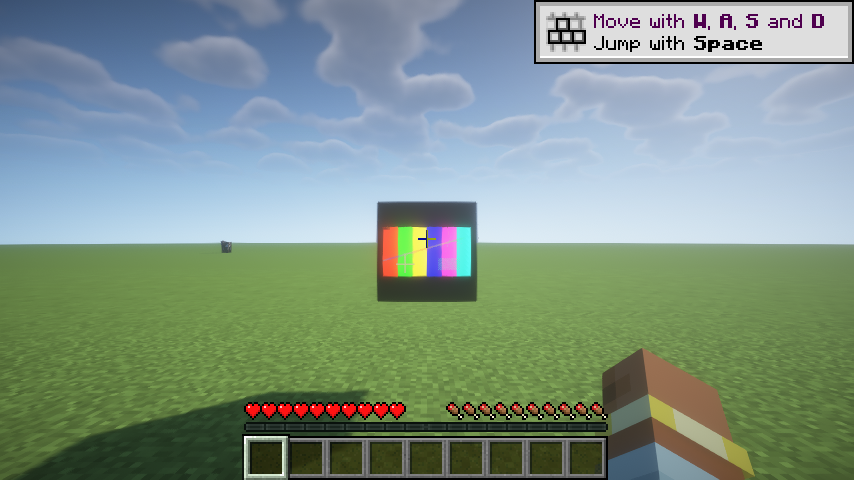
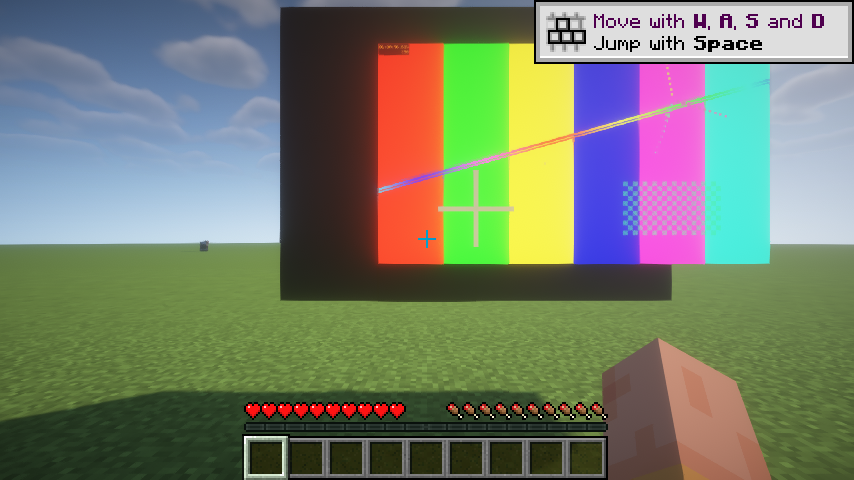
Render multi-block 4x3 screens with shared video surface

diff --git a/src/client/java/com/example/firstmod/client/render/ScreenBlockEntityRenderer.java b/src/client/java/com/example/firstmod/client/render/ScreenBlockEntityRenderer.java
@@ -11,84 +11,91 @@ import net.minecraft.client.renderer.blockentity.BlockEntityRenderer;
 import net.minecraft.client.renderer.blockentity.BlockEntityRendererProvider;
 import net.minecraft.client.renderer.texture.OverlayTexture;
 import net.minecraft.core.Direction;
-import net.minecraft.resources.ResourceLocation;
+import net.minecraft.world.phys.Vec3;
+import org.joml.Matrix4f;
 
 /**
- * Paints the live video texture on the screen block's front face.
+ * Draws one video quad for the whole rectangular screen.
  *
- * <p>The first block slice uses a centered 16:9 image on a 1x1 block. The black
- * frame is the normal block model; multi-block UV splitting comes later.
+ * <p>Only the master block (viewer's left/bottom of the rectangle) renders, so
+ * adjacent screen blocks do not create seams. The black block model acts as the
+ * frame and letterbox; the video is contained inside it.
  */
 public final class ScreenBlockEntityRenderer implements BlockEntityRenderer<ScreenBlockEntity> {
-	private static final ResourceLocation IDLE_TEXTURE =
-		ResourceLocation.withDefaultNamespace("textures/block/black_concrete.png");
-	private static final float MIN = 0.05f;
-	private static final float MAX = 0.95f;
-	private static final float MIN_Y = 0.246875f;
-	private static final float MAX_Y = 0.753125f;
-
 	public ScreenBlockEntityRenderer(BlockEntityRendererProvider.Context context) {
 	}
 
 	@Override
 	public void render(ScreenBlockEntity blockEntity, float tickDelta, PoseStack poseStack,
 					   MultiBufferSource bufferSource, int light, int overlay) {
-		Direction facing = blockEntity.getBlockState().getValue(ScreenBlock.FACING);
-		ResourceLocation texture = CinemaPlayer.active() != null
-			? CinemaPlayer.TEXTURE_ID : IDLE_TEXTURE;
-		VertexConsumer consumer = bufferSource.getBuffer(RenderType.entityCutoutNoCull(texture));
-		var pose = poseStack.last().pose();
-		float normalX = facing.getStepX();
-		float normalZ = facing.getStepZ();
-
-		switch (facing) {
-			case NORTH -> {
-				quad(consumer, pose, MIN, MIN_Y, -0.001f, MAX, MAX_Y, -0.001f,
-					normalX, normalZ);
-			}
-			case SOUTH -> {
-				quad(consumer, pose, MAX, MIN_Y, 1.001f, MIN, MAX_Y, 1.001f,
-					normalX, normalZ);
-			}
-			case WEST -> {
-				quad(consumer, pose, -0.001f, MIN_Y, MIN, -0.001f, MAX_Y, MAX,
-					normalX, normalZ);
-			}
-			case EAST -> {
-				quad(consumer, pose, 1.001f, MIN_Y, MAX, 1.001f, MAX_Y, MIN,
-					normalX, normalZ);
-			}
-			default -> {
-			}
+		CinemaPlayer player = CinemaPlayer.active();
+		if (player == null || player.width() <= 0 || player.height() <= 0) {
+			return;
 		}
+		ScreenGeometry geometry = ScreenGeometry.find(
+			blockEntity.getLevel(), blockEntity.getBlockPos(), blockEntity.getBlockState());
+		if (!blockEntity.getBlockPos().equals(geometry.master())) {
+			return;
+		}
+
+		vertex(blockEntity, bufferSource, poseStack, geometry, player);
 	}
 
-	private static void quad(VertexConsumer consumer, org.joml.Matrix4f pose,
-							 float x0, float y0, float z0, float x1, float y1, float z1,
-							 float normalX, float normalZ) {
-		consumer.addVertex(pose, x0, y0, z0)
-			.setColor(255, 255, 255, 255)
-			.setUv(1.0f, 1.0f)
-			.setOverlay(OverlayTexture.NO_OVERLAY)
-			.setLight(0xF000F0)
-			.setNormal(normalX, 0.0f, normalZ);
-		consumer.addVertex(pose, x1, y0, z1)
+	private static void vertex(ScreenBlockEntity blockEntity, MultiBufferSource bufferSource,
+							   PoseStack poseStack, ScreenGeometry geometry, CinemaPlayer player) {
+		float videoAspect = player.width() / (float) player.height();
+		double width = geometry.width();
+		double height = geometry.height();
+		double contentWidth;
+		double contentHeight;
+		if (width / height >= videoAspect) {
+			contentHeight = height;
+			contentWidth = height * videoAspect;
+		} else {
+			contentWidth = width;
+			contentHeight = width / videoAspect;
+		}
+		double offsetX = (width - contentWidth) / 2.0;
+		double offsetY = (height - contentHeight) / 2.0;
+
+		Vec3 right = geometry.right();
+		Vec3 up = geometry.up();
+		Direction facing = geometry.facing();
+		Vec3 normal = new Vec3(facing.getStepX() * 0.001, 0.0, facing.getStepZ() * 0.001);
+
+		Vec3 p0 = right.scale(offsetX).add(up.scale(offsetY)).add(normal);
+		Vec3 p1 = right.scale(offsetX + contentWidth).add(up.scale(offsetY)).add(normal);
+		Vec3 p2 = right.scale(offsetX + contentWidth).add(up.scale(offsetY + contentHeight)).add(normal);
+		Vec3 p3 = right.scale(offsetX).add(up.scale(offsetY + contentHeight)).add(normal);
+
+		VertexConsumer consumer = bufferSource.getBuffer(
+			RenderType.entityCutoutNoCull(CinemaPlayer.TEXTURE_ID));
+		Matrix4f pose = poseStack.last().pose();
+		float nx = facing.getStepX();
+		float nz = facing.getStepZ();
+		consumer.addVertex(pose, (float) p0.x, (float) p0.y, (float) p0.z)
 			.setColor(255, 255, 255, 255)
 			.setUv(0.0f, 1.0f)
 			.setOverlay(OverlayTexture.NO_OVERLAY)
 			.setLight(0xF000F0)
-			.setNormal(normalX, 0.0f, normalZ);
-		consumer.addVertex(pose, x1, y1, z1)
+			.setNormal(nx, 0.0f, nz);
+		consumer.addVertex(pose, (float) p1.x, (float) p1.y, (float) p1.z)
 			.setColor(255, 255, 255, 255)
-			.setUv(0.0f, 0.0f)
+			.setUv(1.0f, 1.0f)
 			.setOverlay(OverlayTexture.NO_OVERLAY)
 			.setLight(0xF000F0)
-			.setNormal(normalX, 0.0f, normalZ);
-		consumer.addVertex(pose, x0, y1, z0)
+			.setNormal(nx, 0.0f, nz);
+		consumer.addVertex(pose, (float) p2.x, (float) p2.y, (float) p2.z)
 			.setColor(255, 255, 255, 255)
 			.setUv(1.0f, 0.0f)
 			.setOverlay(OverlayTexture.NO_OVERLAY)
 			.setLight(0xF000F0)
-			.setNormal(normalX, 0.0f, normalZ);
+			.setNormal(nx, 0.0f, nz);
+		consumer.addVertex(pose, (float) p3.x, (float) p3.y, (float) p3.z)
+			.setColor(255, 255, 255, 255)
+			.setUv(0.0f, 0.0f)
+			.setOverlay(OverlayTexture.NO_OVERLAY)
+			.setLight(0xF000F0)
+			.setNormal(nx, 0.0f, nz);
 	}
 }

diff --git a/src/client/java/com/example/firstmod/client/render/ScreenGeometry.java b/src/client/java/com/example/firstmod/client/render/ScreenGeometry.java
@@ -1,0 +1,77 @@
+package com.example.firstmod.client.render;
+
+import com.example.firstmod.FirstMod;
+import com.example.firstmod.block.ScreenBlock;
+import net.minecraft.core.BlockPos;
+import net.minecraft.core.Direction;
+import net.minecraft.world.level.Level;
+import net.minecraft.world.level.block.state.BlockState;
+import net.minecraft.world.phys.Vec3;
+
+/**
+ * Finds the contiguous rectangular screen containing a block.
+ *
+ * <p>The screen plane is vertical. Only blocks with the same facing and on the
+ * same plane are considered. This is deliberately a small scan: screens are
+ * expected to be at most 16x16 blocks.
+ */
+public record ScreenGeometry(BlockPos master, Direction facing, int width, int height,
+							 Vec3 right, Vec3 up) {
+	private static final int MAX = 16;
+
+	public static ScreenGeometry find(Level level, BlockPos pos, BlockState state) {
+		Direction facing = state.getValue(ScreenBlock.FACING);
+		boolean alongX = facing.getAxis() == Direction.Axis.Z;
+		int stepX = alongX ? 1 : 0;
+		int stepZ = alongX ? 0 : 1;
+
+		int minH = 0;
+		int maxH = 0;
+		while (maxH < MAX && isScreen(level, pos.offset(stepX * (maxH + 1), 0, stepZ * (maxH + 1)), facing)) {
+			maxH++;
+		}
+		while (minH > -MAX && isScreen(level, pos.offset(stepX * (minH - 1), 0, stepZ * (minH - 1)), facing)) {
+			minH--;
+		}
+
+		int minY = 0;
+		int maxY = 0;
+		while (maxY < MAX && rowIsScreen(level, pos, stepX, stepZ, minH, maxH, maxY + 1, facing)) {
+			maxY++;
+		}
+		while (minY > -MAX && rowIsScreen(level, pos, stepX, stepZ, minH, maxH, minY - 1, facing)) {
+			minY--;
+		}
+
+		int width = maxH - minH + 1;
+		int height = maxY - minY + 1;
+		int masterX = pos.getX() + stepX * (facing == Direction.NORTH || facing == Direction.WEST ? maxH : minH);
+		int masterZ = pos.getZ() + stepZ * (facing == Direction.NORTH || facing == Direction.WEST ? maxH : minH);
+		BlockPos master = new BlockPos(masterX, pos.getY() + minY, masterZ);
+
+		Vec3 right = switch (facing) {
+			case NORTH -> new Vec3(-1, 0, 0);
+			case SOUTH -> new Vec3(1, 0, 0);
+			case WEST -> new Vec3(0, 0, -1);
+			case EAST -> new Vec3(0, 0, 1);
+			default -> new Vec3(1, 0, 0);
+		};
+		return new ScreenGeometry(master, facing, width, height, right, new Vec3(0, 1, 0));
+	}
+
+	private static boolean rowIsScreen(Level level, BlockPos origin, int stepX, int stepZ,
+									   int minH, int maxH, int y, Direction facing) {
+		for (int h = minH; h <= maxH; h++) {
+			BlockPos p = origin.offset(stepX * h, y, stepZ * h);
+			if (!isScreen(level, p, facing)) {
+				return false;
+			}
+		}
+		return true;
+	}
+
+	private static boolean isScreen(Level level, BlockPos pos, Direction facing) {
+		BlockState state = level.getBlockState(pos);
+		return state.is(FirstMod.SCREEN_BLOCK) && state.getValue(ScreenBlock.FACING) == facing;
+	}
+}

diff --git a/src/client/java/com/example/firstmod/client/FirstModClient.java b/src/client/java/com/example/firstmod/client/FirstModClient.java
@@ -236,13 +236,24 @@ public class FirstModClient implements ClientModInitializer {
 		if (client.level == null || client.player == null) {
 			return;
 		}
-		Direction facing = client.player.getDirection();
-		BlockPos screenPos = client.player.blockPosition().relative(facing, 4).above();
-		BlockPos projectorPos = client.player.blockPosition().relative(facing, -3).above();
-		client.level.setBlockAndUpdate(screenPos,
-			FirstMod.SCREEN_BLOCK.defaultBlockState().setValue(ScreenBlock.FACING, facing.getOpposite()));
-		client.level.setBlockAndUpdate(projectorPos,
-			FirstMod.PROJECTOR_BLOCK.defaultBlockState().setValue(ProjectorBlock.FACING, facing));
-		FirstMod.LOGGER.info("cinema block spike: screen={} projector={} facing={}", screenPos, projectorPos, facing);
+		Direction forward = client.player.getDirection();
+		Direction screenFacing = forward.getOpposite();
+		BlockPos center = client.player.blockPosition().relative(forward, 4).above();
+		for (int horizontal = -2; horizontal <= 1; horizontal++) {
+			for (int vertical = 0; vertical < 3; vertical++) {
+				BlockPos pos = switch (screenFacing) {
+					case NORTH, SOUTH -> center.offset(horizontal, vertical, 0);
+					case WEST, EAST -> center.offset(0, vertical, horizontal);
+					default -> center;
+				};
+				client.level.setBlockAndUpdate(pos, FirstMod.SCREEN_BLOCK.defaultBlockState()
+					.setValue(ScreenBlock.FACING, screenFacing));
+			}
+		}
+		BlockPos projectorPos = client.player.blockPosition().relative(forward, -3).above();
+		client.level.setBlockAndUpdate(projectorPos, FirstMod.PROJECTOR_BLOCK.defaultBlockState()
+			.setValue(ProjectorBlock.FACING, forward));
+		FirstMod.LOGGER.info("cinema block spike: 4x3 screen={} projector={} facing={}",
+			center, projectorPos, forward);
 	}
 }

diff --git a/src/main/java/com/example/firstmod/block/ProjectorBlock.java b/src/main/java/com/example/firstmod/block/ProjectorBlock.java
@@ -1,6 +1,7 @@
 package com.example.firstmod.block;
 
 import net.minecraft.world.item.context.BlockPlaceContext;
+import net.minecraft.core.Direction;
 import net.minecraft.world.level.block.Block;
 import net.minecraft.world.level.block.HorizontalDirectionalBlock;
 import net.minecraft.world.level.block.state.BlockState;

diff --git a/spike/README.md b/spike/README.md
@@ -297,15 +297,15 @@ Sodium/Iris 直接崩溃。只保留 `javacv`/`ffmpeg`/`javacpp` 三件套并设
 
 已注册：
 
-- `firstmod:screen`：1×1 屏幕方块，深色边框，block entity renderer 在正面绘制 16:9 视频面
+- `firstmod:screen`：屏幕方块，block entity renderer 自动扫描连续矩形（最大 16×16），
+  由 master 方块绘制一张完整视频面，避免方块缝；视频按 contain 比例加黑边
 - `firstmod:projector`：投影仪方块（当前只有朝向和方块模型，镜头/几何下一步）
 - 物品模型、blockstate、创造模式物品栏
 
 ![P1 screen block](screenshots/p1-screen-block.png)
 
-测试属性 `-Dfirstmod.spike.blocks=true` 会在玩家前方放置屏幕、后方放置投影仪，
-再用真实 720p30/5.1 播放。当前屏幕仍是 1 方块大小；下一步做 4×3 多方块 UV 和
-投影仪镜头/遮挡。
+测试属性 `-Dfirstmod.spike.blocks=true` 会在玩家前方生成 4×3 屏幕、后方放置投影仪，
+再用真实 720p30/5.1 播放。下一步做投影仪镜头/投掷比/对焦/遮挡。
 
 ## 结论：GO
 

diff --git a/spike/P05-DESIGN.md b/spike/P05-DESIGN.md
@@ -417,9 +417,9 @@ C/D 需要投影仪深度图/自定义 shader/光影包适配，和 Sodium/Iris 
 - ⬜ 两小时长片内存测试。
 
 **P1：影院房间。**
-- ✅ `ScreenBlock` + `ScreenBlockEntity` + 视频纹理 renderer（1×1）
+- ✅ `ScreenBlock` + `ScreenBlockEntity` + 视频纹理 renderer
+- ✅ 4×3 多方块屏幕扫描/UV/master 渲染
 - ✅ `ProjectorBlock` 方块/朝向/模型（镜头与投影几何下一步）
-- ⬜ 4×3 多方块屏幕 UV
 - ⬜ 投影仪镜头/投掷比/对焦/遮挡
 - ⬜ AV Receiver + Speaker + Seat
 - ⬜ GUI/网络/本地文件选择
